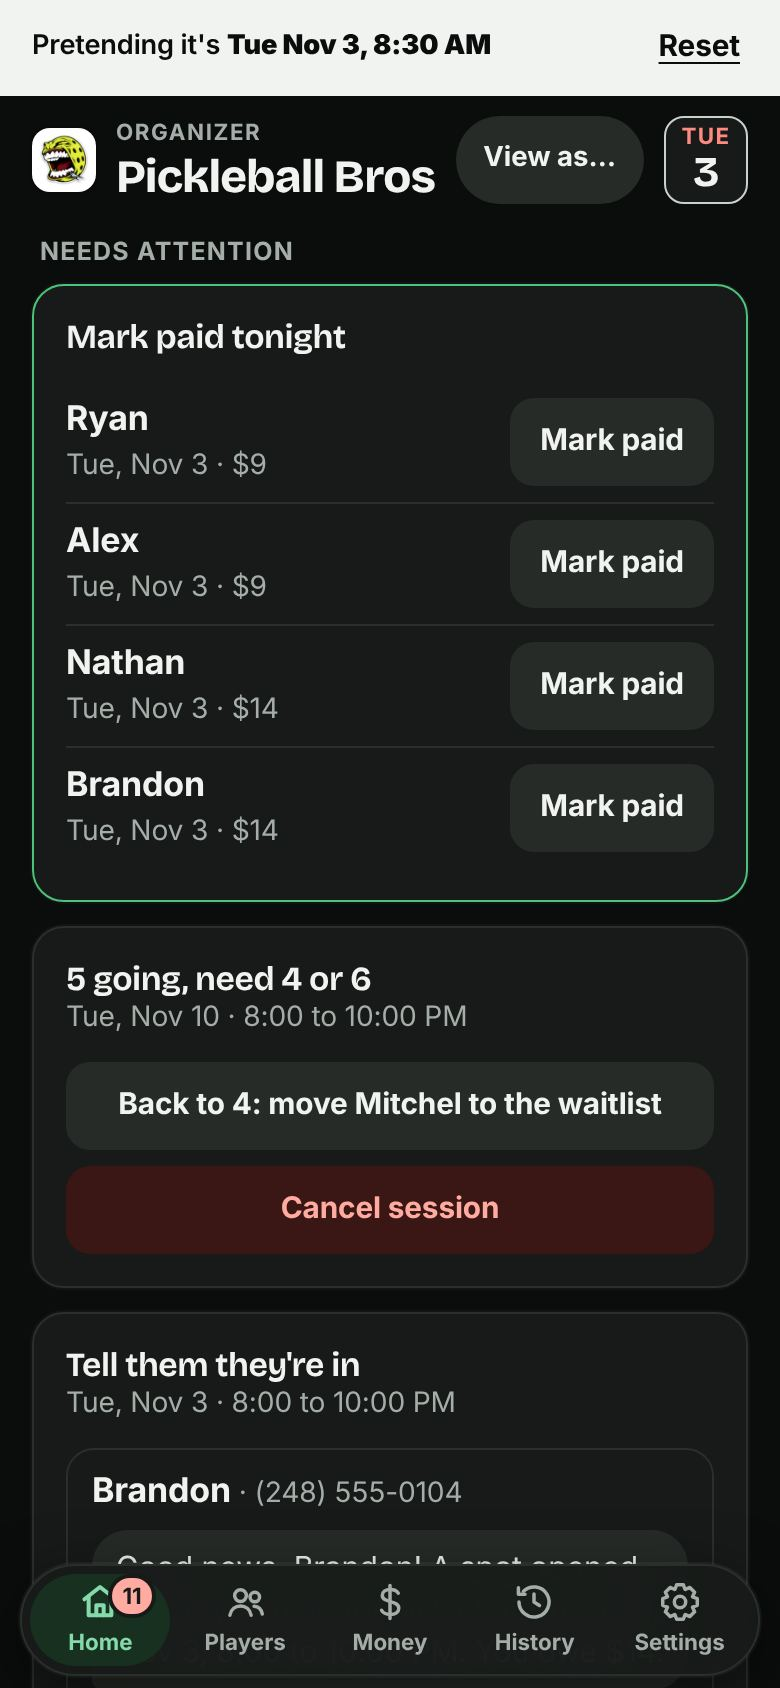
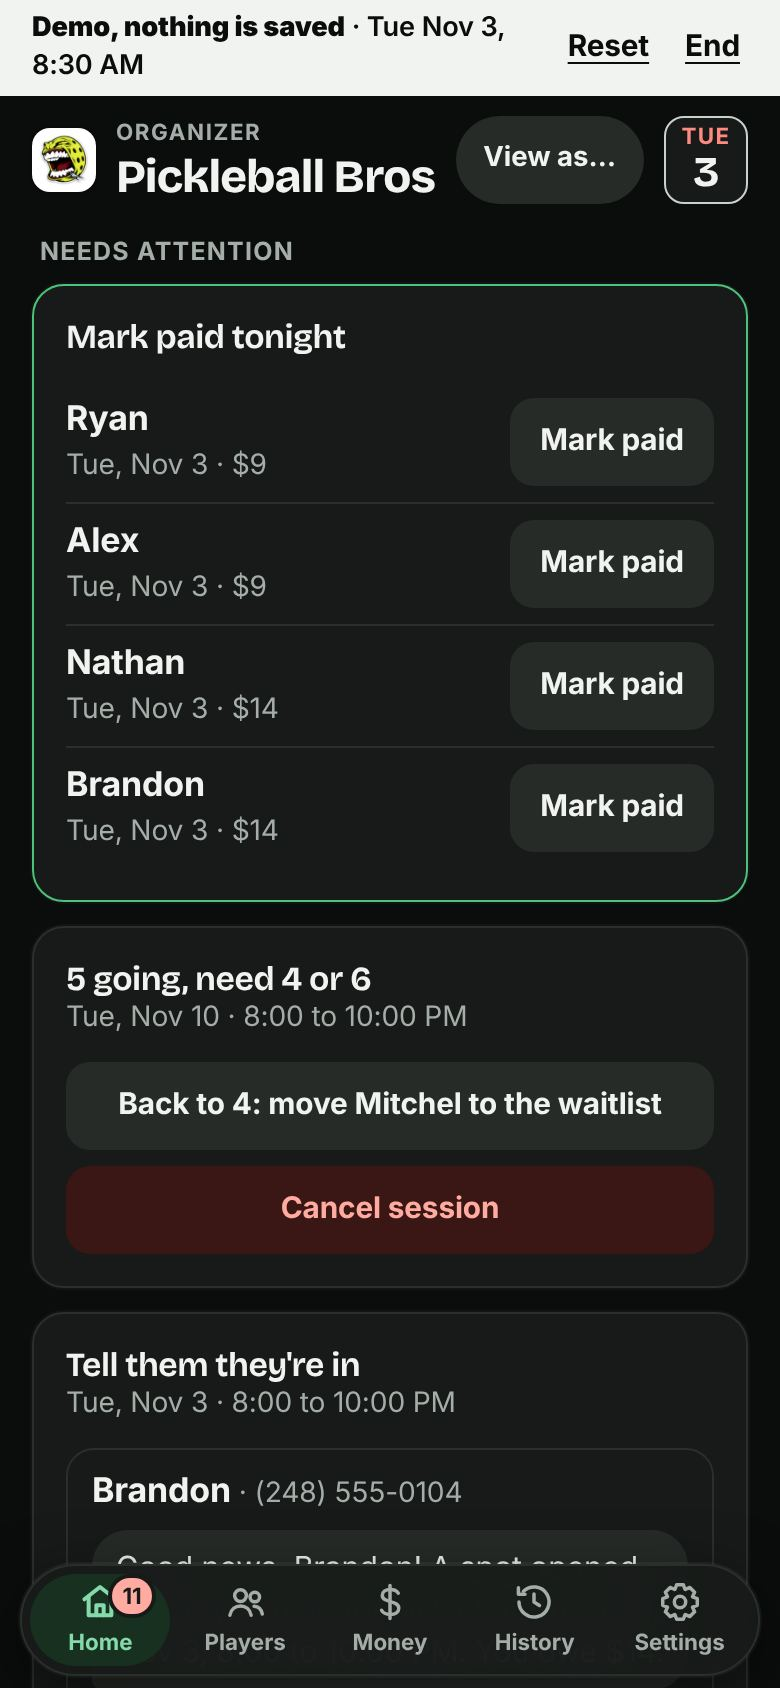
Gallery refreshed for the demo, credit note and Pay changes
Claude-Session: https://claude.ai/code/session_017NFcnabyj791FBNSLfbjw3

Changed region(s): [[0.0308, 0.0, 0.6462, 0.0616], [0.7385, 0.0, 0.9538, 0.0616]]

diff --git a/docs/state-gallery/README.md b/docs/state-gallery/README.md
@@ -44,7 +44,7 @@ Sheets are made from the pictures with a small image script after `node e2e/gall
 
 <img src="player/02-game-day-pay-card-390-light.jpg" width="240" alt="390px light"> <img src="player/02-game-day-pay-card-390-dark.jpg" width="240" alt="390px dark">
 
-### After tapping Pay: "I paid" appears (and, with no Venmo app, "Open Venmo website")
+### After tapping Pay: "I paid" appears next to it
 
 <img src="player/03-pay-then-i-paid-390-light.jpg" width="240" alt="390px light"> <img src="player/03-pay-then-i-paid-390-dark.jpg" width="240" alt="390px dark">
 
@@ -88,7 +88,7 @@ Sheets are made from the pictures with a small image script after `node e2e/gall
 
 <img src="player/13-row-on-standby-390-light.jpg" width="240" alt="390px light"> <img src="player/13-row-on-standby-390-dark.jpg" width="240" alt="390px dark">
 
-### Credit line: $5 toward the next session
+### A $5 credit but no game yet: nothing about it shows (it appears on the game it comes off)
 
 <img src="player/14-credit-line-390-light.jpg" width="240" alt="390px light"> <img src="player/14-credit-line-390-dark.jpg" width="240" alt="390px dark">
 
@@ -238,7 +238,7 @@ Sheets are made from the pictures with a small image script after `node e2e/gall
 
 <img src="organizer/20-history-activity-390-light.jpg" width="240" alt="390px light"> <img src="organizer/20-history-activity-390-dark.jpg" width="240" alt="390px dark">
 
-### View as… (look only)
+### View as… (a demo: taps work, nothing is saved)
 
 <img src="organizer/21-view-as-390-light.jpg" width="240" alt="390px light"> <img src="organizer/21-view-as-390-dark.jpg" width="240" alt="390px dark">
 
@@ -246,7 +246,7 @@ Sheets are made from the pictures with a small image script after `node e2e/gall
 
 <img src="organizer/21-view-as-pretend-390-light.jpg" width="240" alt="390px light"> <img src="organizer/21-view-as-pretend-390-dark.jpg" width="240" alt="390px dark">
 
-### Pretending it's game day, 8:30 AM: the bar with Reset
+### Pretend it's game day, 8:30 AM: "Demo, nothing is saved" bar with Reset and End
 
 <img src="organizer/22-pretending-390-light.jpg" width="240" alt="390px light"> <img src="organizer/22-pretending-390-dark.jpg" width="240" alt="390px dark">
 
